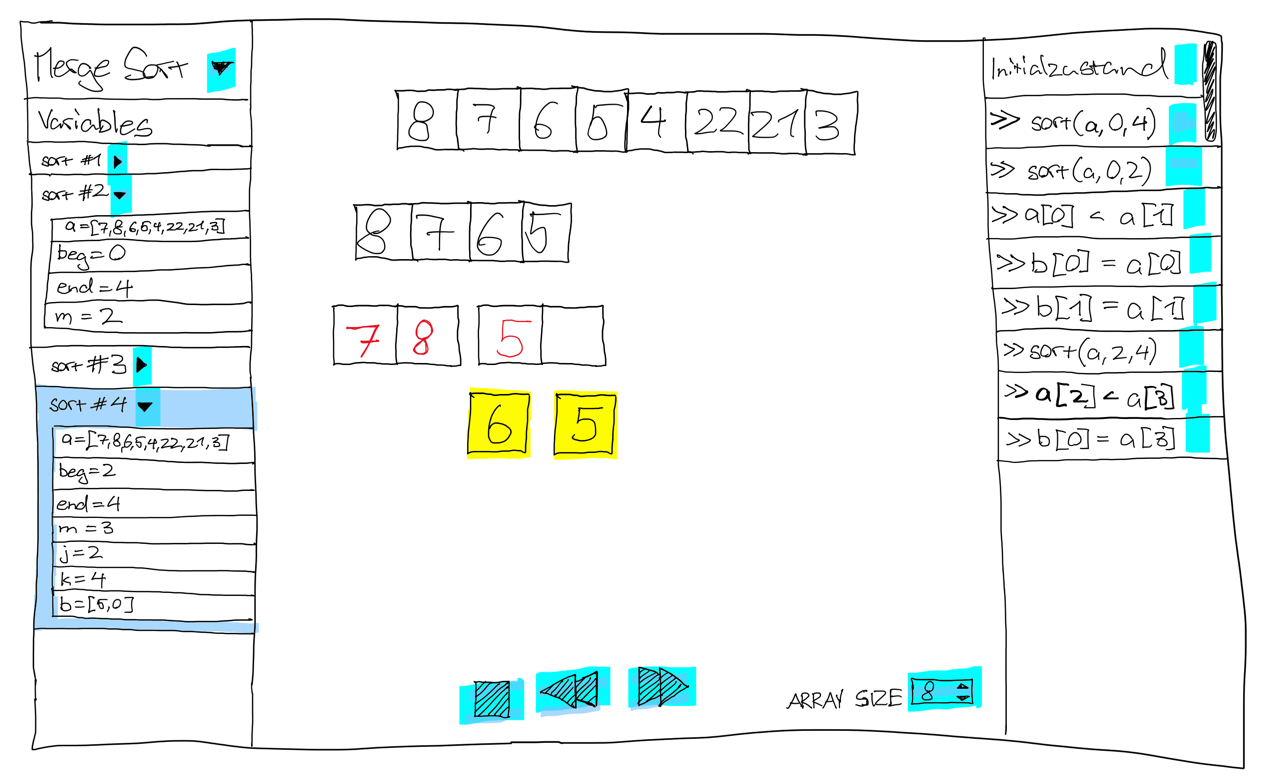
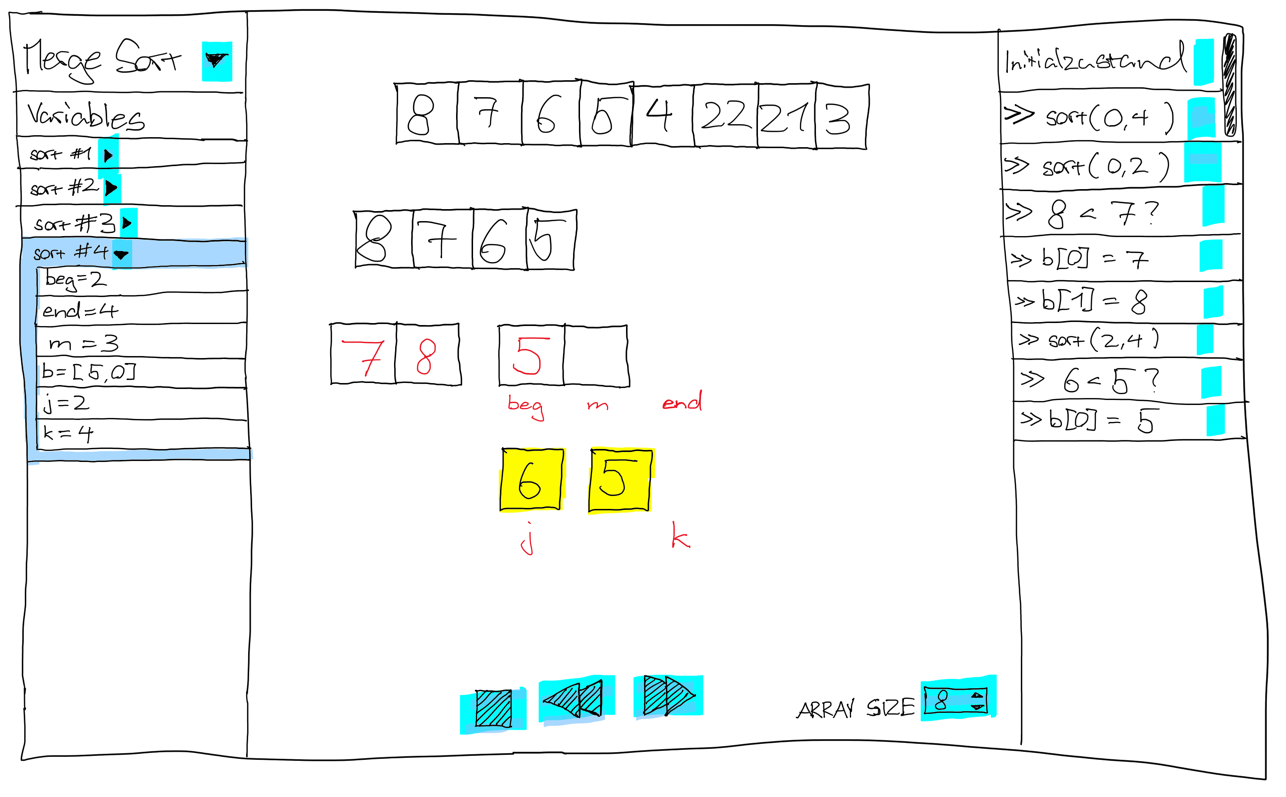
improved mockups by learnshop feedback

diff --git a/README.md b/README.md
@@ -531,8 +531,12 @@
 
 ### Feedback Learnshop
 - Welche Elemente des MergeSorts sind nicht klar oder vielleicht auch verwirrend?
+  - evt. History benennen
 - Was müsste anders sein, dass dir diese Applikation hilft, den MergeSort optimal zu verstehen?
+  - Die Variablen, welche auf Indexe der Arrays zeigen, sollten auch visualisiert werden. x2
 - Wie gross ist der Mehrwert der angezeigten Variablen (da der Applikationscode des Algorithmus nicht ersichtlich ist)?
+  - Hilft etwas, vor allem wenn die Indexe auch unter den Arrays visualisiert werden.
+    - -> evt. nur die Variablen anzeigen, welche auch visualisiert werden.
 
 
 ## Fragen & Antworten
